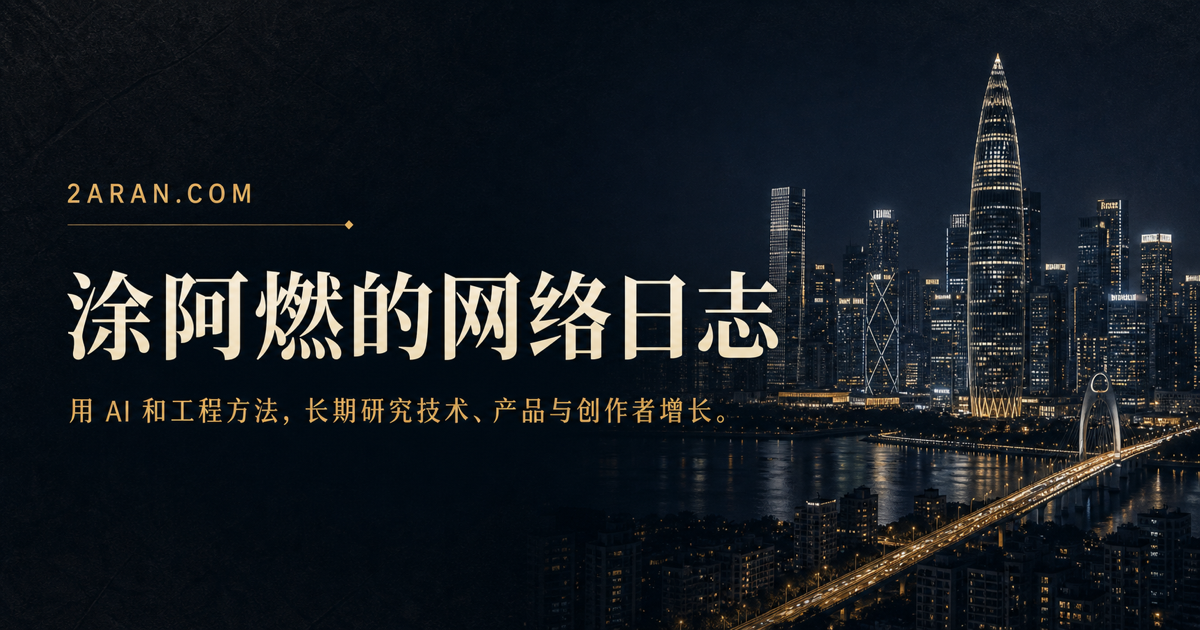
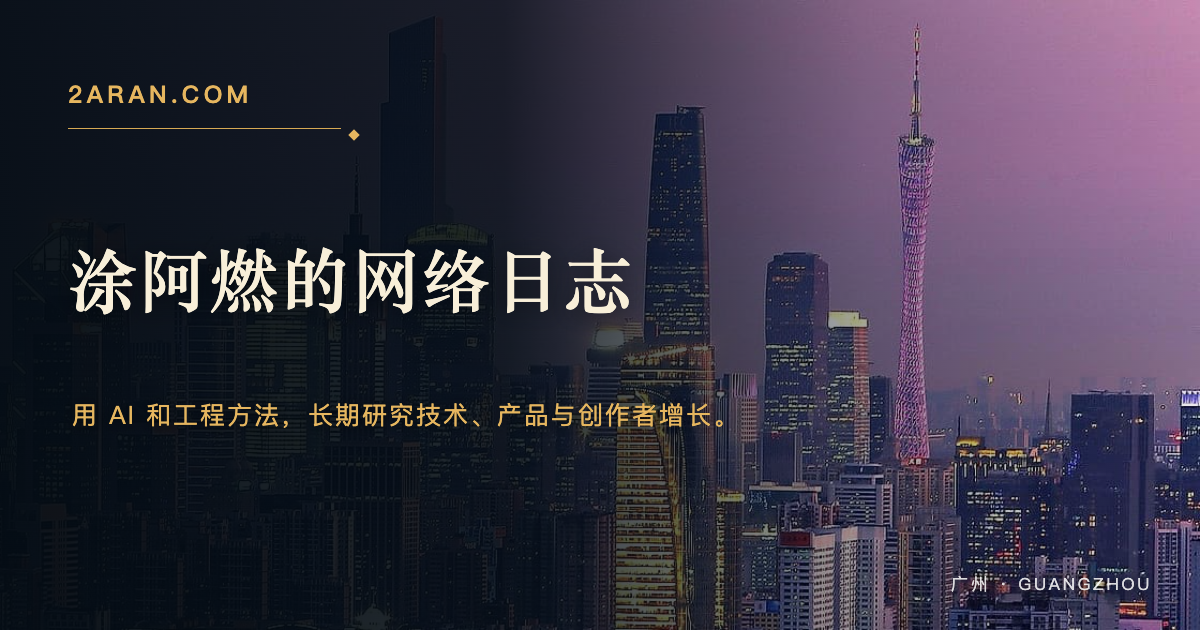
restore static Guangzhou social cover

diff --git a/lib/articleOg.js b/lib/articleOg.js
@@ -1,33 +1,5 @@
 const SITE_URL = 'https://2aran.com'
 
-function compact(value, maxLength) {
-  const text = String(value || '').replace(/\s+/g, ' ').trim()
-  if (text.length <= maxLength) return text
-  return `${text.slice(0, maxLength - 1).trimEnd()}…`
-}
-
-export function buildArticleOgUrl({
-  key = '',
-  version = '',
-  title,
-  description,
-  category = '文章',
-  date = '',
-} = {}) {
-  const compactKey = compact(key, 180)
-  if (compactKey) {
-    const keyedParams = new URLSearchParams({ key: compactKey })
-    const compactVersion = compact(version, 40)
-    if (compactVersion) keyedParams.set('v', compactVersion)
-    return `${SITE_URL}/social-card?${keyedParams.toString()}`
-  }
-
-  const params = new URLSearchParams({
-    title: compact(title, 72) || '涂阿燃的网络日志',
-    description: compact(description, 72),
-    category: compact(category, 18) || '文章',
-    date: compact(date, 20),
-  })
-
-  return `${SITE_URL}/social-card?${params.toString()}`
+export function buildArticleOgUrl() {
+  return `${SITE_URL}/og.png`
 }

diff --git a/middleware.js b/middleware.js
@@ -31,12 +31,6 @@ export function middleware(request) {
   const { pathname } = request.nextUrl
   const host = (request.headers.get('host') || '').split(':')[0].toLowerCase()
 
-  // 分享图片是公开、可缓存资源。不要为爬虫响应写语言 Cookie，否则 Cloudflare
-  // 会把每次抓取都当作动态响应，放大 ImageResponse 的冷启动延迟。
-  if (pathname === '/api/og' || pathname === '/social-card') {
-    return NextResponse.next()
-  }
-
   if (pathname === '/ads.txt') {
     return new Response(ADS_TXT, {
       headers: {

diff --git a/app/(site)/articles/research/[category]/[slug]/page.jsx b/app/(site)/articles/research/[category]/[slug]/page.jsx
@@ -73,8 +73,6 @@ export async function generateMetadata({ params }) {
   const description = entry.summary || `${CATEGORY_META[entry.category]?.label || ''}：${entry.title}`
   const isEncrypted = entry.encrypted
   const ogImage = buildArticleOgUrl({
-    key: `${entry.category}/${entry.slug}`,
-    version: [entry.date, entry.time].filter(Boolean).join(' '),
     title,
     description,
     category: CATEGORY_META[entry.category]?.label || '分析',

diff --git a/app/robots.js b/app/robots.js
@@ -3,7 +3,7 @@ export default function robots() {
     rules: [
       {
         userAgent: '*',
-        allow: ['/', '/api/og'],
+        allow: '/',
         disallow: ['/api/', '/admin/', '/agent-ops/'],
       },
     ],

diff --git a/app/api/og/route.js b/app/api/og/route.js
@@ -1,0 +1,5 @@
+export const runtime = 'edge'
+
+export function GET(request) {
+  return Response.redirect(new URL('/og.png', request.url), 307)
+}
